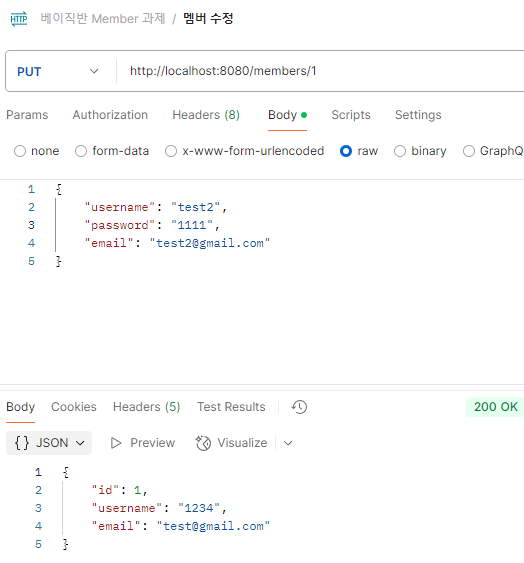
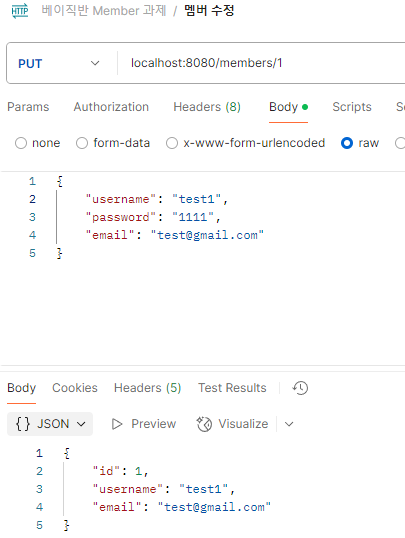
finish

diff --git a/src/main/java/com/example/jpa2/service/MemberService.java b/src/main/java/com/example/jpa2/service/MemberService.java
@@ -56,7 +56,7 @@ public class MemberService {
                 () -> new IllegalArgumentException("수정할 수 없습니다.")
         );
 
-        member.update(member.getUsername(), member.getPassword(), member.getEmail());
+        member.update(memberRequestDto.getUsername(), memberRequestDto.getPassword(), memberRequestDto.getEmail());
 
         return new MemberResponseDto(member.getId(), member.getUsername(), member.getEmail());
     }
